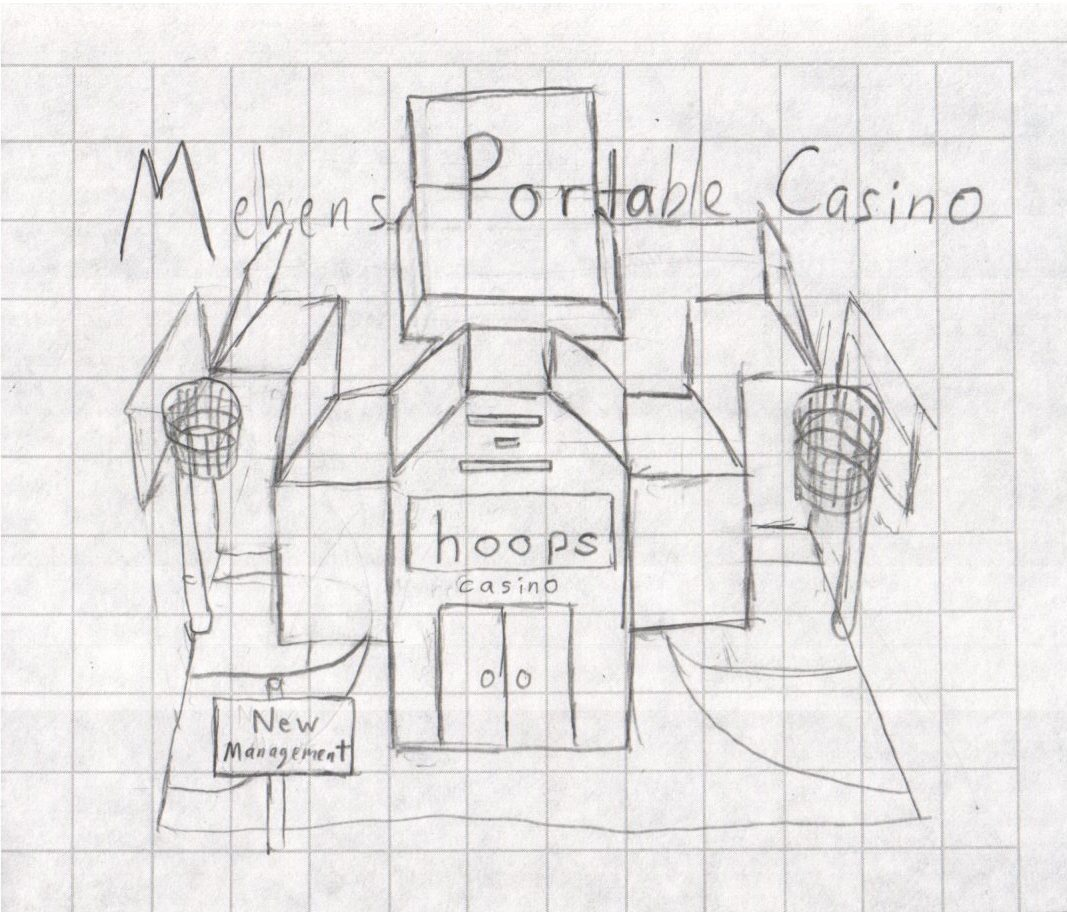
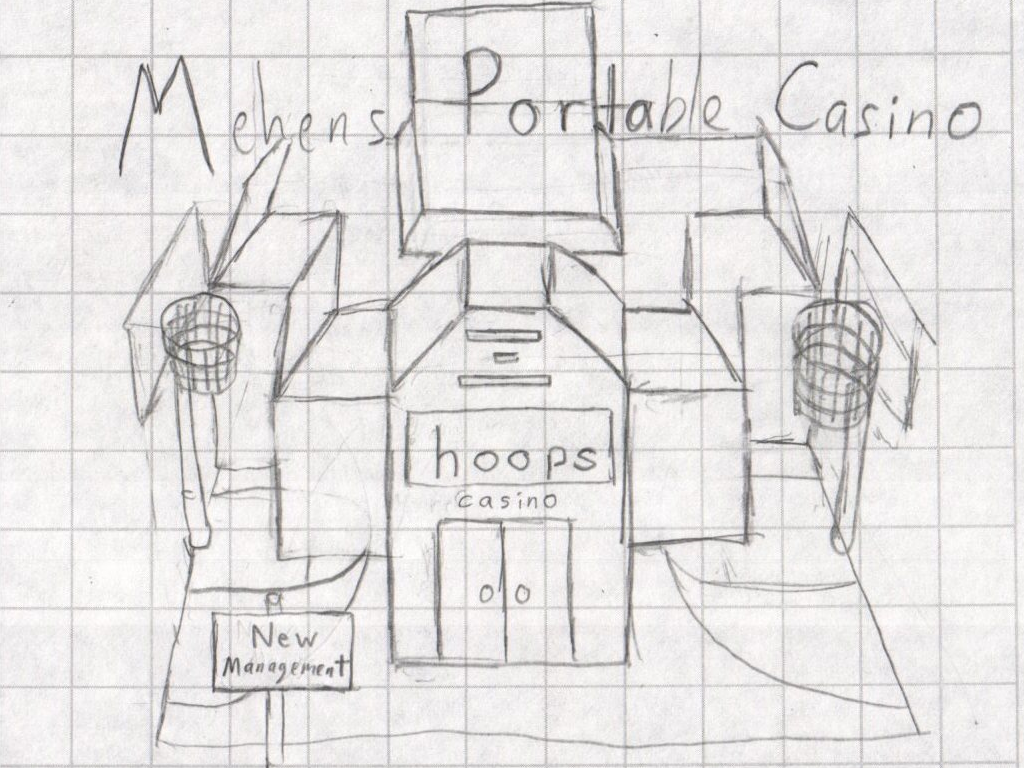
Created an art piece for the main loading screen. Replaced massive paper version.

diff --git a/src/scenes/intro_mpc_title.rs b/src/scenes/intro_mpc_title.rs
@@ -16,11 +16,11 @@
 
 //My imports
 use game_logic::scene_type::SceneType;
-use game_logic::utility_functions::safe_quit;
+use game_logic::utility_functions::{safe_quit, make_param};
 
 //Ggez
 //use ggez::graphics;
-use ggez::graphics::{FilterMode,Image, Point2, DrawParam, Drawable, draw, set_default_filter};
+use ggez::graphics::{FilterMode,Image, Point2, /*DrawParam, Drawable,*/ draw, set_default_filter};
 use ggez::graphics::spritebatch::{SpriteBatch};
 
 use ggez::event;
@@ -35,8 +35,8 @@ Here I define all the assets I will need to run a particular scene. This creates
 #[allow(unused)]
 pub struct IntroMPC {
     s_type: SceneType,
+    bg_mpc: Image,
     background_mpc: SpriteBatch,
-    background_mpc_param: DrawParam,
 }
 
 impl IntroMPC {
@@ -45,11 +45,12 @@ impl IntroMPC {
 
         Ok(())
     }
-    //We won't worry about clearing or drawing either since MainState handles that too
-    pub fn draw(&mut self, ctx: &mut Context, screen_center: &(f32,f32)) -> GameResult<()> {
-        //self.background_mpc.draw(ctx, *screen_center, 0.0)?;
-        draw(ctx,&self.background_mpc, Point2::new(screen_center.0.clone(), screen_center.1.clone()), 0.0)?;
-        self.background_mpc.clone().draw(ctx, Point2::new(screen_center.0.clone(), screen_center.1.clone()), 0.0)?;
+
+    //We won't worry about clearing or presenting either since MainState handles that too
+    //Also you MUST add params to your Spritebatch every draw call for it to render.
+    pub fn draw(&mut self, ctx: &mut Context, _screen_center: &(f32,f32)) -> GameResult<()> {
+        self.background_mpc.add(make_param());
+        draw(ctx,&self.background_mpc, Point2::new(0.0, 0.0), 0.0)?;
         Ok(())
     }
 
@@ -68,25 +69,15 @@ impl IntroMPC {
     pub fn new(ctx: &mut Context) -> GameResult<IntroMPC> {
         set_default_filter(ctx, FilterMode::Nearest);
 
-
-        let bg_spr = SpriteBatch::new(Image::new(ctx, "/MPC1.png")?);
-      //  bg_spr.set_filter(FilterMode::Linear);
-
-
-        //Adapted from Line 305 - 311 of https://github.com/maccam912/thewizzerofoz/blob/master/src/main.rs
-        let bg_param = DrawParam {
-            dest: Point2::new(0.0,0.0),
-            scale: Point2::new(1.0,1.0),
-            rotation: 0.0,
-            offset: Point2::new(0.0,0.0),
-            ..Default::default()
-        };
+        let bg = Image::new(ctx, "/MPC1.png")?;
+        let bg_spr = SpriteBatch::new(bg.clone());
 
 
         let x = IntroMPC {
             s_type: SceneType::Intro,
+            bg_mpc: bg,
             background_mpc: bg_spr,
-            background_mpc_param: bg_param,
+            //background_mpc_param: bg_param,
         };
         Ok(x)
     }

diff --git a/src/game_logic/main_state.rs b/src/game_logic/main_state.rs
@@ -38,13 +38,16 @@ use ggez::timer::check_update_time; //Gotta control FPS!
 use ggez::event;
 use ggez::event::{MouseButton};
 
-use ggez::graphics::{clear,present};
+use ggez::graphics::spritebatch::{SpriteBatch};
+use ggez::graphics::{Image,clear,present};
 
 //Std imports
 use std::slice::Iter;
 use std::iter::{Cycle, Iterator};
 
 //This is the core loop
+//Note that due to the way resources are loaded
+//all image data MUST be accessible here
 #[allow(unused)]
 pub struct MainState<'a>{
     //Scene Data
@@ -56,6 +59,7 @@ pub struct MainState<'a>{
     quit_flag: bool,
     //Intro Screen
     mpc_intro: IntroMPC,
+    test_bg: SpriteBatch,
 }
 
 impl<'a> event::EventHandler for MainState<'a>{
@@ -151,7 +155,8 @@ impl<'a> MainState<'a>{
     //This loads the first scene and stores the rest into a buffer variable
     pub fn new (ctx: &mut Context, scene_buf: &'a mut Cycle<Iter<'a,SceneType>>) -> Self {
 
-
+        let bg = Image::new(ctx, "/MPC1.png").expect("ahhhh");
+        let bg_spr = SpriteBatch::new(bg.clone());
 
         //Scene allocations
         let mpc1 = IntroMPC::new(ctx).expect("Cannot load IntroMPC");
@@ -171,6 +176,7 @@ impl<'a> MainState<'a>{
             fps_target: 60,
             quit_flag: false,
             mpc_intro: mpc1,
+             test_bg: bg_spr,
         };
 
          retval

diff --git a/src/game_logic/utility_functions.rs b/src/game_logic/utility_functions.rs
@@ -22,10 +22,22 @@ use game_logic::main_state;
 //Ggez
 use ggez::conf::{WindowSetup, WindowMode};
 use ggez::{ContextBuilder, Context};
+use ggez::graphics::{/*Image,*/ Point2, DrawParam};
 
 //Std
 use std::env::var;
 use std::path::PathBuf;
+
+pub fn make_param() -> DrawParam {
+    //Adapted from Line 305 - 311 of https://github.com/maccam912/thewizzerofoz/blob/master/src/main.rs
+    DrawParam {
+        dest: Point2::new(0.0,0.0),
+        scale: Point2::new(1.0,1.0),
+        rotation: 0.0,
+        offset: Point2::new(0.0,0.0),
+        ..Default::default()
+    }
+}
 
 //This is here to do stuff to the context based on flags set. Add whatever flags and info you need
 //to the parameters to do its work

diff --git a/src/main.rs b/src/main.rs
@@ -69,8 +69,8 @@ fn main() {
 
     //Basic window settings, can be changed ingame
     let w_mode = WindowMode {
-        width: 1024,
-        height: 768,
+        width: 800,
+        height: 600,
         borderless: false,
         fullscreen_type: FullscreenType::Off,
         vsync: true,

diff --git a/TODO.md b/TODO.md
@@ -11,3 +11,9 @@ I don't know if it is possible to implement event::EventHandler for something be
 the main game loop and divided by match statements. Ugly I know.
 
 4) I will cram as much as possible into functions to simplify it to the greatest extent possible 
+
+Update 8/3/18
+
+I have some art pieces and have gotten draw functions to work!
+
+Next is animations
